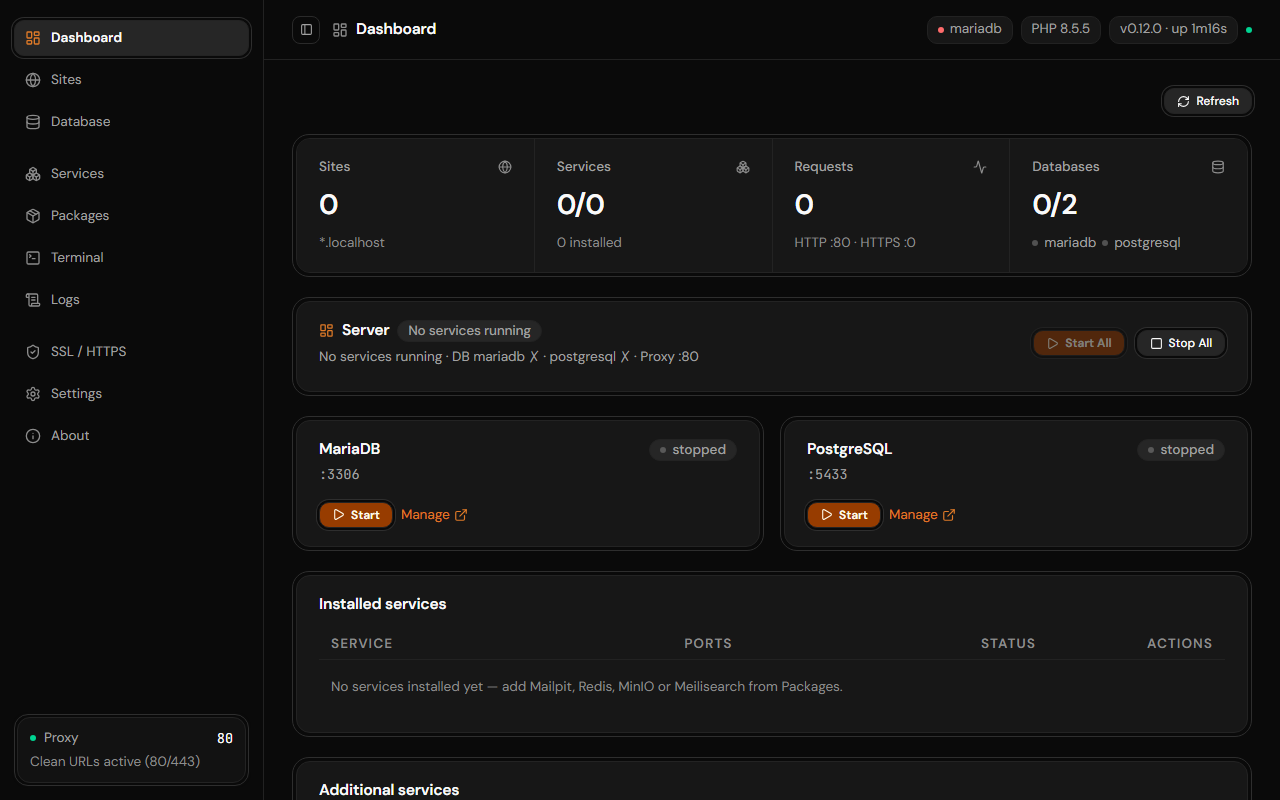
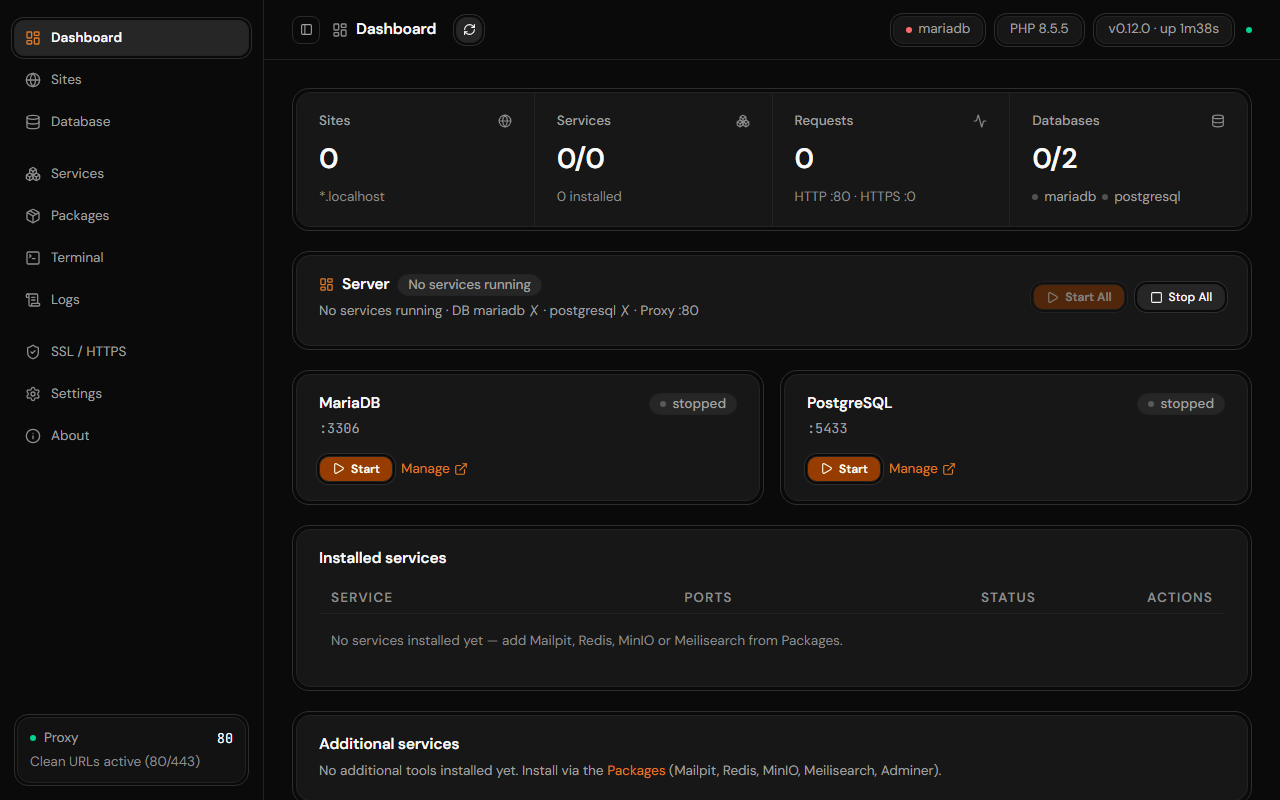
ui: the dashboard refresh moves into the top bar, and the status pills become buttons
A refresh belongs to the page you are looking at, and the top bar
already knows which page that is - so the button moved there, next to
the title, and the dashboard now opens straight into the numbers
instead of a row that held nothing but that one button.

The bar needs to know what refreshing means, so a page registers its
action with a small provider: the dashboard registers its reload, the
bar shows the button while a page is registered, and it disappears
again on the next page.

The status pills on the right wear the same ring as every other
button now - an outer edge, a gap in the app background and their own
edge - so the whole right-hand side of the bar reads as buttons
rather than as a row of flat labels.

diff --git a/internal/dashboard/ui/src/components/page-refresh.tsx b/internal/dashboard/ui/src/components/page-refresh.tsx
@@ -1,0 +1,83 @@
+import {
+  createContext,
+  useCallback,
+  useContext,
+  useEffect,
+  useMemo,
+  useRef,
+  useState,
+  type ReactNode,
+} from "react"
+
+/* eslint-disable react-refresh/only-export-components -- a provider and the
+   two hooks that talk to it belong together; splitting them would put the
+   context in a file of its own for no gain. */
+
+type PageRefreshValue = {
+  /** A page registers its refresh action here; null takes it back. */
+  setRefresh: (fn: (() => void) | null) => void
+  /** True while a page has something to refresh. */
+  canRefresh: boolean
+  /** Runs the registered action. */
+  refresh: () => void
+}
+
+const PageRefreshContext = createContext<PageRefreshValue | null>(null)
+
+/**
+ * The top bar's refresh button.
+ *
+ * A page that has something to reload (the dashboard, with its services and
+ * traffic) registers an action; the bar shows a refresh button for as long as
+ * one is registered. The button lives in the bar because a refresh belongs to
+ * the page you are looking at, and the bar already knows which page that is.
+ */
+export function PageRefreshProvider({ children }: { children: ReactNode }) {
+  const handlerRef = useRef<(() => void) | null>(null)
+  const [canRefresh, setCanRefresh] = useState(false)
+
+  const setRefresh = useCallback((fn: (() => void) | null) => {
+    handlerRef.current = fn
+    setCanRefresh(fn !== null)
+  }, [])
+
+  const refresh = useCallback(() => handlerRef.current?.(), [])
+
+  const value = useMemo(
+    () => ({ setRefresh, canRefresh, refresh }),
+    [setRefresh, canRefresh, refresh]
+  )
+
+  return (
+    <PageRefreshContext.Provider value={value}>
+      {children}
+    </PageRefreshContext.Provider>
+  )
+}
+
+/** Called by a page that wants the top bar to offer a refresh. */
+export function usePageRefresh(action: () => void) {
+  const ctx = useContext(PageRefreshContext)
+  const actionRef = useRef(action)
+  const setRefresh = ctx?.setRefresh
+
+  useEffect(() => {
+    actionRef.current = action
+  })
+
+  useEffect(() => {
+    if (!setRefresh) return
+    setRefresh(() => actionRef.current())
+    return () => setRefresh(null)
+    // setRefresh is stable, so registering once is enough.
+  }, [setRefresh])
+}
+
+/** Called by the top bar to render the refresh button. */
+export function usePageRefreshState() {
+  const ctx = useContext(PageRefreshContext)
+  return {
+    canRefresh: ctx?.canRefresh ?? false,
+    refresh: ctx?.refresh ?? (() => {}),
+  }
+}

diff --git a/internal/dashboard/ui/src/components/site-header.tsx b/internal/dashboard/ui/src/components/site-header.tsx
@@ -1,10 +1,12 @@
-import { Boxes } from "lucide-react"
+import { Boxes, RefreshCw } from "lucide-react"
 import { Link, useLocation } from "react-router-dom"
 
 import { SidebarTrigger } from "@/components/ui/sidebar"
 import { StatusDot } from "@/components/status"
 import { useLive } from "@/lib/live"
 import { NAV_ITEMS } from "@/components/app-sidebar"
+import { Button } from "@/components/ui/button"
+import { usePageRefreshState } from "@/components/page-refresh"
 import { dbEngineRunning } from "@/lib/dbstatus"
 
 // The trail the reference design puts in the top bar: on a site page you are
@@ -29,7 +31,7 @@ function Pill({
   return (
     <span
       className={
-        "inline-flex h-[28px] items-center gap-1.5 rounded-lg border border-border-soft bg-surface px-2.5 text-[13.5px] whitespace-nowrap text-text-secondary " +
+        "inline-flex h-[28px] items-center gap-1.5 rounded-lg border border-ring-inner bg-surface px-3 text-[13.5px] whitespace-nowrap text-text-secondary shadow-[0_0_0_2px_var(--ring-gap),0_0_0_3px_var(--ring-outer)] " +
         className
       }
     >
@@ -44,6 +46,7 @@ export default function SiteHeader() {
   const siteName = siteNameFrom(location.pathname)
   const page = NAV_ITEMS.find((n) => n.url === location.pathname)
   const dbRunning = status ? dbEngineRunning(status) : false
+  const { canRefresh, refresh } = usePageRefreshState()
 
   return (
     <header className="flex h-(--header-height) shrink-0 items-center border-b border-border-soft bg-background transition-[width,height] ease-linear group-has-data-[collapsible=icon]/sidebar-wrapper:h-(--header-height)">
@@ -68,7 +71,20 @@ export default function SiteHeader() {
           </h1>
         ) : null}
 
-        <div className="ml-auto flex items-center gap-2">
+        {canRefresh ? (
+          <Button
+            size="icon-sm"
+            variant="outline"
+            onClick={refresh}
+            aria-label="Refresh"
+            title="Refresh"
+            className="ml-2"
+          >
+            <RefreshCw />
+          </Button>
+        ) : null}
+
+        <div className="ml-auto flex items-center gap-3.5">
           {status?.database ? (
             <Pill>
               <StatusDot status={dbRunning ? "running" : "error"} />

diff --git a/internal/dashboard/ui/src/pages/dashboard.tsx b/internal/dashboard/ui/src/pages/dashboard.tsx
@@ -41,7 +41,7 @@ import {
 } from "@/components/ui/chart"
 import { Skeleton } from "@/components/ui/skeleton"
 import { IconButton } from "@/components/icon-button"
-import { PageActions } from "@/components/page-actions"
+import { usePageRefresh } from "@/components/page-refresh"
 import { MetricStrip } from "@/components/metric-strip"
 import { StatusDot, ToneBadge } from "@/components/status"
 import { Switch } from "@/components/ui/switch"
@@ -310,6 +310,10 @@ export default function DashboardPage() {
     return () => clearInterval(t)
   }, [setupDone])
 
+  // The refresh button lives in the top bar, so the bar needs to know what
+  // refreshing this page means.
+  usePageRefresh(() => loadAllRef.current())
+
   async function toggleService(svc: ServiceStatus, enabled: boolean) {
     setBusy(svc.name)
     try {
@@ -483,12 +487,6 @@ export default function DashboardPage() {
 
   return (
     <div className="flex flex-col gap-5 px-5 py-7 lg:px-7">
-      <PageActions>
-          <Button size="sm" variant="outline" onClick={() => loadAllRef.current()} disabled={busy === "all"}>
-            <RefreshCw className={busy === "all" ? "animate-spin" : ""} /> Refresh
-          </Button>
-        </PageActions>
-
       {/* The four numbers are one card, not four: the divider between the
           cells is what makes them read as one fact about the machine. */}
       <MetricStrip

diff --git a/internal/dashboard/ui/src/App.tsx b/internal/dashboard/ui/src/App.tsx
@@ -8,6 +8,7 @@ import { SidebarInset, SidebarProvider } from "@/components/ui/sidebar"
 import { Skeleton } from "@/components/ui/skeleton"
 import { Toaster } from "@/components/ui/sonner"
 import { LiveProvider } from "@/lib/live"
+import { PageRefreshProvider } from "@/components/page-refresh"
 import { cn } from "@/lib/utils"
 import type { SetupStatus } from "@/lib/api"
 
@@ -123,6 +124,7 @@ export function App() {
     <div className={cn("flex flex-col", tauri ? "tb-frame" : "min-h-dvh")} style={frameStyle}>
       <AppTitlebar />
       <LiveProvider>
+      <PageRefreshProvider>
       <SidebarProvider
         className={cn(tauri && "min-h-(--app-h) flex-1")}
         style={
@@ -179,6 +181,7 @@ export function App() {
         </SidebarInset>
         <Toaster position="bottom-right" closeButton />
       </SidebarProvider>
+      </PageRefreshProvider>
       </LiveProvider>
     </div>
   )

diff --git a/docs/ui-revamp-plan.md b/docs/ui-revamp-plan.md
@@ -1067,3 +1067,17 @@ Susunan Settings 최종:
 Kartu php.ini yang paling lebar (kodenya butuh ruang — versi窄 = 12/24 dan
 baris panjang membungkus), dan **tinggi kartu General = tinggi kartu php.ini**
 (grid `items-stretch`, editor php.ini `flex-1` sehingga keypadnya ikut meregang).
+
+### 8. Refresh pindah ke navbar, pill jadi tombol ber-ring
+
+- Tombol **Refresh** di halaman Dashboard dipindah ke **top bar**, tepat di
+  sebelah kanan judul halaman. Halaman yang punya sesuatu untuk dimuat ulang
+  mendaftarkan aksinya lewat `PageRefreshProvider`
+  (`src/components/page-refresh.tsx`): tombol di navbar muncul selama ada
+  halaman yang terdaftar, dan menghilang lagi saat pindah halaman. Halaman
+  Dashboard kini langsung dibuka dengan strip metrik — tanpa baris tombol
+  yang hanya berisi satu tombol.
+- Pill status di top bar (`mariadb`, `PHP 8.5.5`, `v0.12.0 · up …`) sekarang
+  memakai **ring yang sama dengan tombol** (edge luar 1px + celah 2px + edge
+  sendiri), jadi seluruh bar bagian kanan terbaca sebagai kumpulan tombol
+  dari bahasa yang sama.
